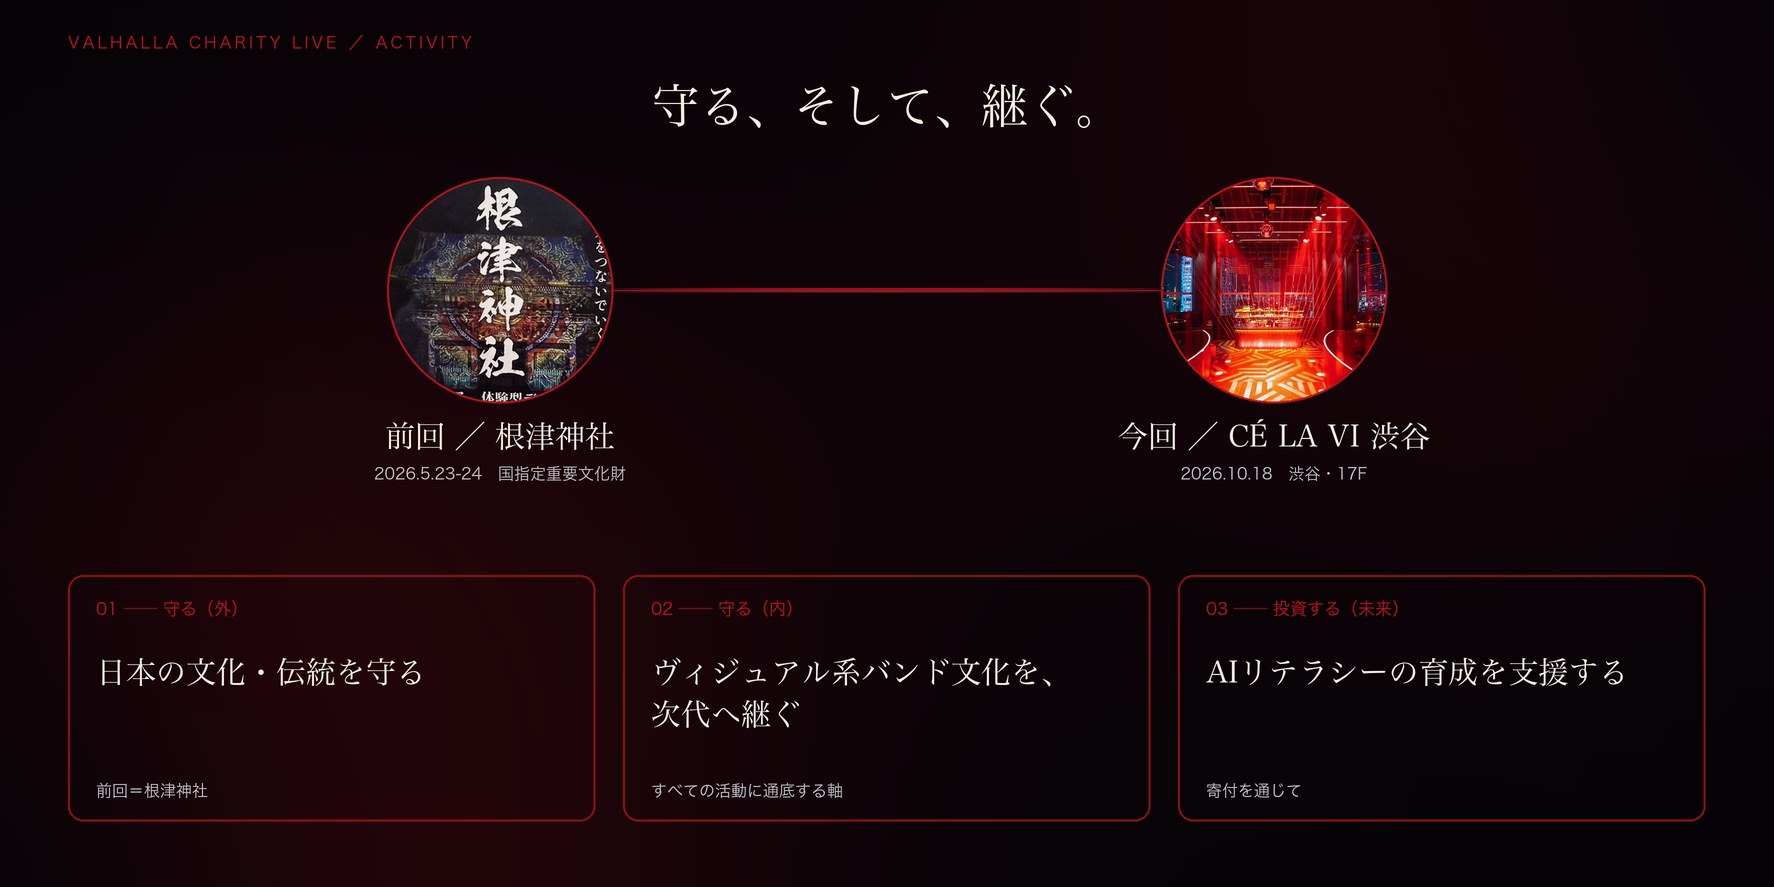
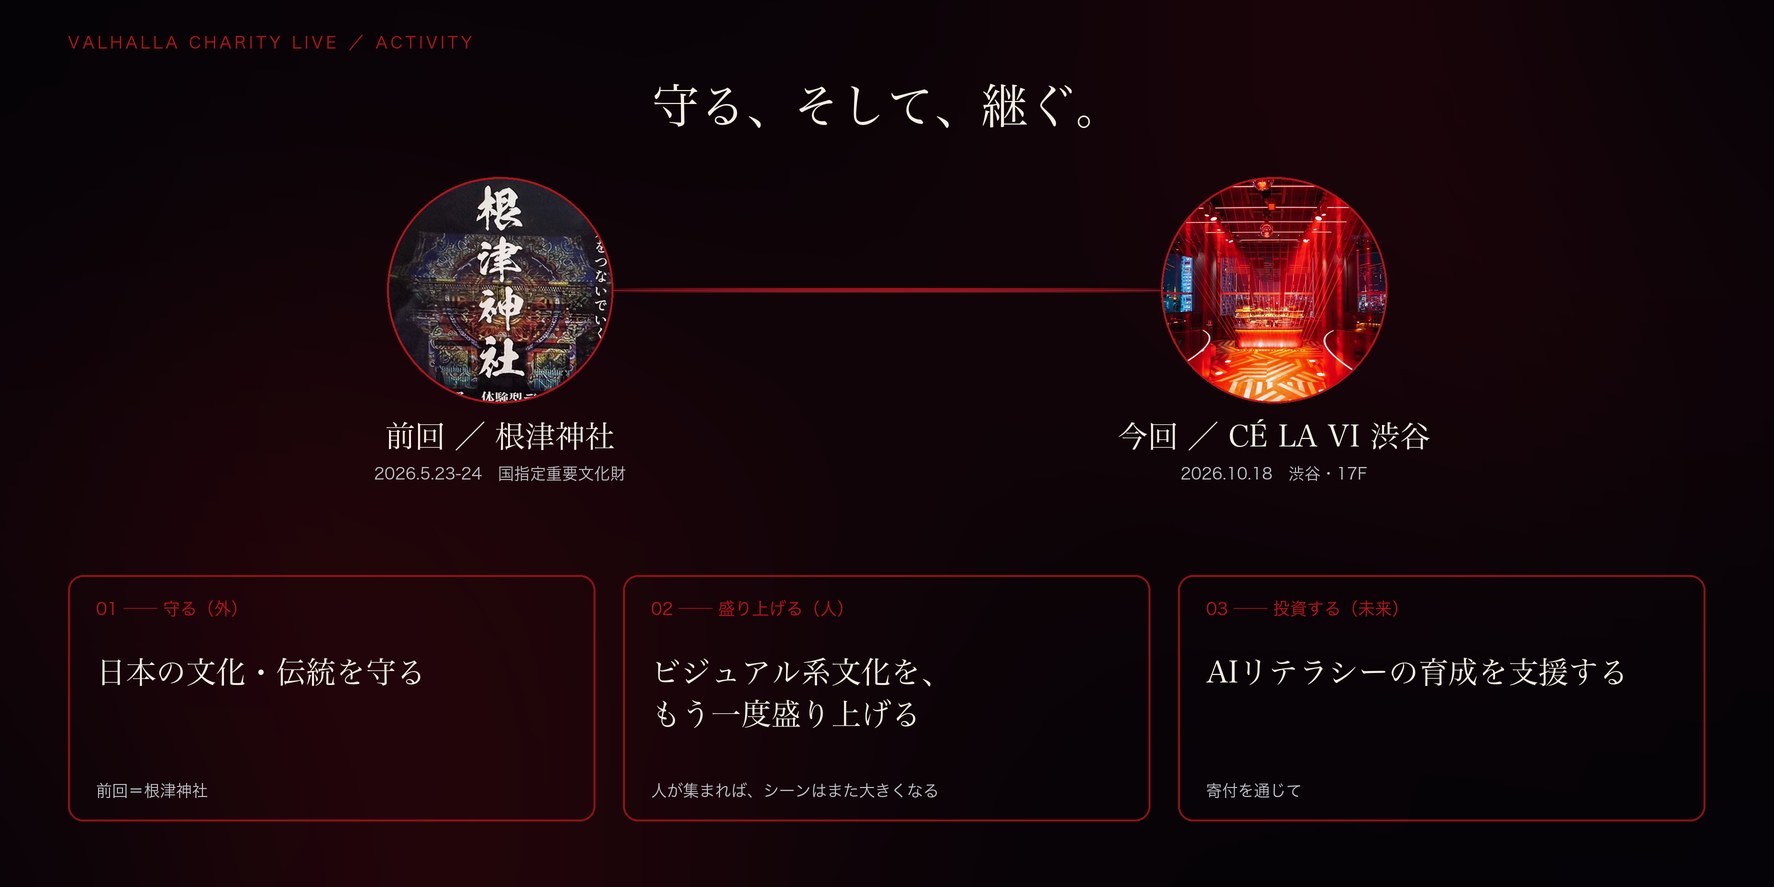
charity: reword the second axis to reviving the scene
「ヴィジュアル系バンド文化を、次代へ継ぐ」は本人たちの実感と違うため、
「ビジュアル系文化を、もう一度盛り上げる」へ変更。
ラベルも「守る(内)」から「盛り上げる(人)」に。補足は
「人が集まれば、シーンはまた大きくなる」。

3つの軸が 守る / 盛り上げる / 投資する と役割で分かれた。

なお前回この文言を変えた際に画像の再生成が走っておらず、
バナーだけ古いままだった(画像14:47 / スクリプト15:54)。今回は直接生成して反映。

Changed region(s): [[0.372, 0.7306, 0.5891, 0.8219], [0.372, 0.8828, 0.5271, 0.9132], [0.403, 0.6697, 0.4651, 0.7001]]

diff --git a/campfire-preview.html b/campfire-preview.html
@@ -101,7 +101,7 @@ code{background:#f0f0f0;padding:1px 5px;border-radius:3px;font-size:13px}
 <p>そして今回、テーマは「守る」から「<strong>未来へ投資する</strong>」に移ります。昼の本編が掲げる <strong>AIリテラシー</strong>の育成を、この夜の収益で支えます。</p>
 <p>私たちの活動には、3つの軸があります。</p>
 <p><strong>01 ── 守る（外）　日本の文化・伝統を守る</strong>　… 前回＝根津神社</p>
-<p><strong>02 ── つなぐ（人）　衰退するシーンに、もう一度人を集める</strong>　… 繋いだ先に、この文化が続いていく</p>
+<p><strong>02 ── 盛り上げる（人）　ビジュアル系文化を、もう一度盛り上げる</strong>　… 人が集まれば、シーンはまた大きくなる</p>
 <p><strong>03 ── 投資する（未来）　AIリテラシーの育成を支援する</strong>　… 寄付を通じて</p>
 <p>伝統を守り、自分たちの文化を継ぎ、未来へ投資する。一度きりのイベントではなく、続けていく活動として組み立てています。</p>
 <h2 id="s6">6. イベント概要</h2>

diff --git a/assets/charity/create_axis_banner.py b/assets/charity/create_axis_banner.py
@@ -189,8 +189,8 @@ def add_cards(base: Image.Image) -> None:
     height, top = 246, 575
     cards = (
         ("01 ── 守る（外）", ("日本の文化・伝統を守る",), "前回＝根津神社"),
-        ("02 ── つなぐ（人）", ("衰退するシーンに、", "もう一度人を集める"),
-         "繋いだ先に、この文化が続いていく"),
+        ("02 ── 盛り上げる（人）", ("ビジュアル系文化を、", "もう一度盛り上げる"),
+         "人が集まれば、シーンはまた大きくなる"),
         ("03 ── 投資する（未来）", ("AIリテラシーの育成を支援する",),
          "寄付を通じて"),
     )

diff --git a/docs/campfire-project-body.md b/docs/campfire-project-body.md
@@ -218,7 +218,7 @@
 
 **01 ── 守る（外）　日本の文化・伝統を守る**　… 前回＝根津神社
 
-**02 ── つなぐ（人）　衰退するシーンに、もう一度人を集める**　… 繋いだ先に、この文化が続いていく
+**02 ── 盛り上げる（人）　ビジュアル系文化を、もう一度盛り上げる**　… 人が集まれば、シーンはまた大きくなる
 
 **03 ── 投資する（未来）　AIリテラシーの育成を支援する**　… 寄付を通じて
 
